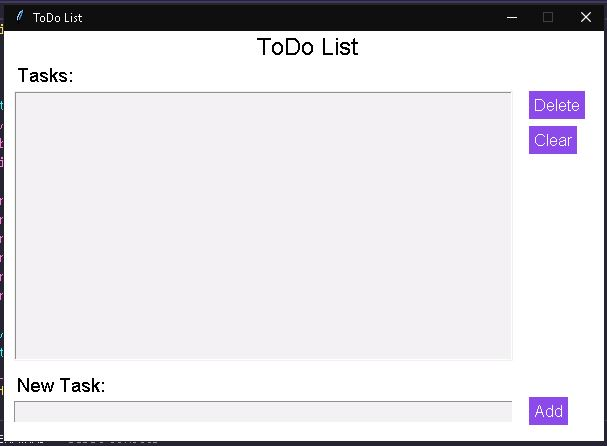
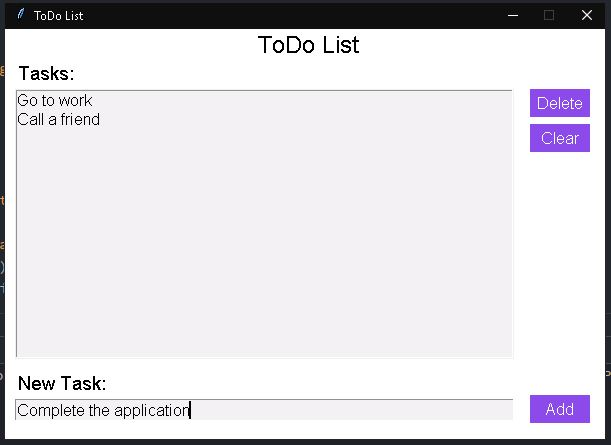
Brought all buttons to the same width. New screenshot

diff --git a/main.py b/main.py
@@ -1,4 +1,3 @@
-# ToDo list
 from tkinter import *
 
 
@@ -48,14 +47,14 @@ class Window:
 
         # ======== Button ==========
         bt_delete = Button(self.root, text='Delete', command=bt_delete_press, bg=self.bt_bg, fg=self.white, bd=0,
-                           font='ComicSansMS 12')
+                           font='ComicSansMS 12', width=6)
         bt_delete.place(x=525, y=60)
 
-        bt_clear = Button(self.root, text='Clear', command=bt_clear_press, bg=self.bt_bg, fg=self.white, bd=0,
+        bt_clear = Button(self.root, text='Clear', command=bt_clear_press, bg=self.bt_bg, fg=self.white, bd=0, width=6,
                            font='ComicSansMS 12')
         bt_clear.place(x=525, y=95)
 
-        bt_add = Button(self.root, text='Add', command=bt_add_press, bg=self.bt_bg, fg=self.white, bd=0,
+        bt_add = Button(self.root, text='Add', command=bt_add_press, bg=self.bt_bg, fg=self.white, bd=0, width=6,
                            font='ComicSansMS 12')
         bt_add.place(x=525, y=366)
 
